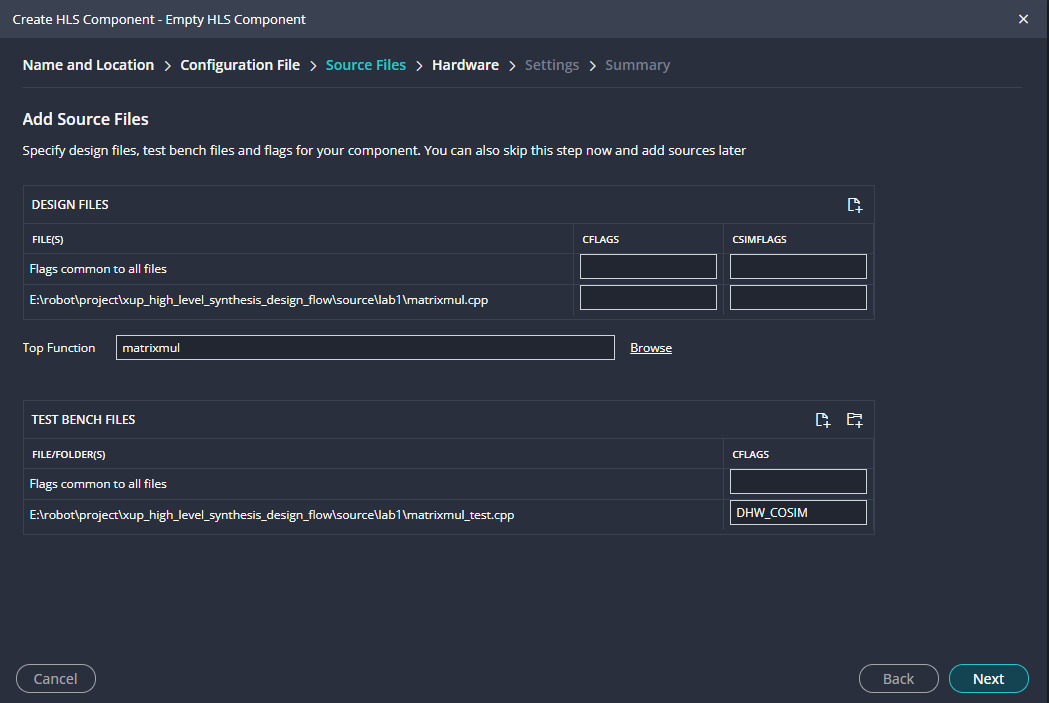
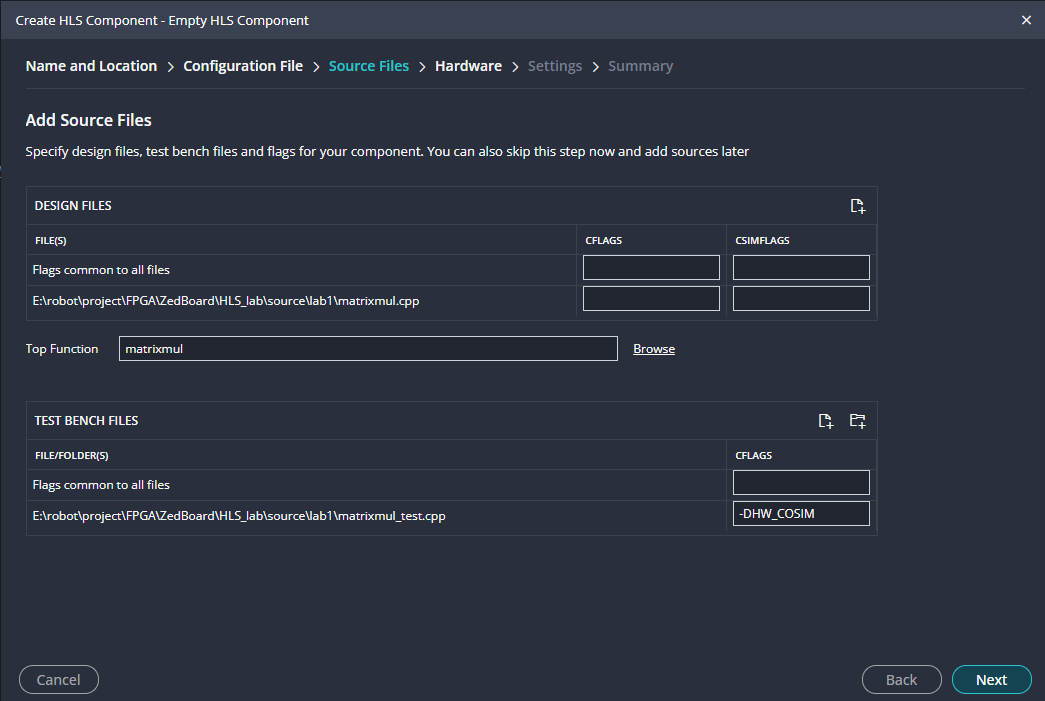
change one fig

diff --git a/docs/lab1_vitis.md b/docs/lab1_vitis.md
@@ -44,7 +44,7 @@ After completing this lab, you will be able to:
 6. In the *Source Files* window, type **matrixmul** as the *Top Function* name (the provided source file contains the function, called matrixmul, to be synthesized).
 7. Click the *Add Files…* button (which in the line of DESIGN FILES), select **matrixmul.cpp** file from the **{labs}/lab1** folder, and then click **Open**.
 8. Then we add the test file, in the next block click *Add Files…* button (which in the line of TEST BENCH FILES), select **matrixmul_test.cpp** file from the **/home/xup/hls/labs/lab1** folder and click **Open**.
-9.  Select the **matrixmul_test.cpp** in the files list window and click the *Edit CFLAG…* button, type **-DHW_COSIM**, and click **OK**. (This defines a compiler flag that will be used later.)
+9.  Select the **matrixmul_test.cpp** in the files list window and click the *Edit CFLAG…* button, type</P> **-DHW_COSIM** (there has  a "-" in here, don't forget it), and click **OK**. (This defines a compiler flag that will be used later.)
 10. Click **Next**.
     <p align="center">
     <img src ="./images/lab1_vitis/Figure3.jpg">
@@ -82,11 +82,11 @@ After completing this lab, you will be able to:
 
 ### Run C Simulation
 
-1. Select **FLOW > C Simulation > Run**, and click **OK** in the C Simulation Dialog window.</p>
+1. Select **FLOW > C Simulation > Run**.</p>
    <sub>it may be have a windows ask if Enable Code Analyzer, click **Yes, enable Code Analyzer**</sub></p>
     The files will be compiled and you will see the output in the Console window.
     <p align="center">
-    <img src ="./images/lab1/Figure6.png">
+    <img src ="./images/lab1_vitis/Figure7.jpg">
     </p>
     <p align = "center">
     <i>Program output</i>
